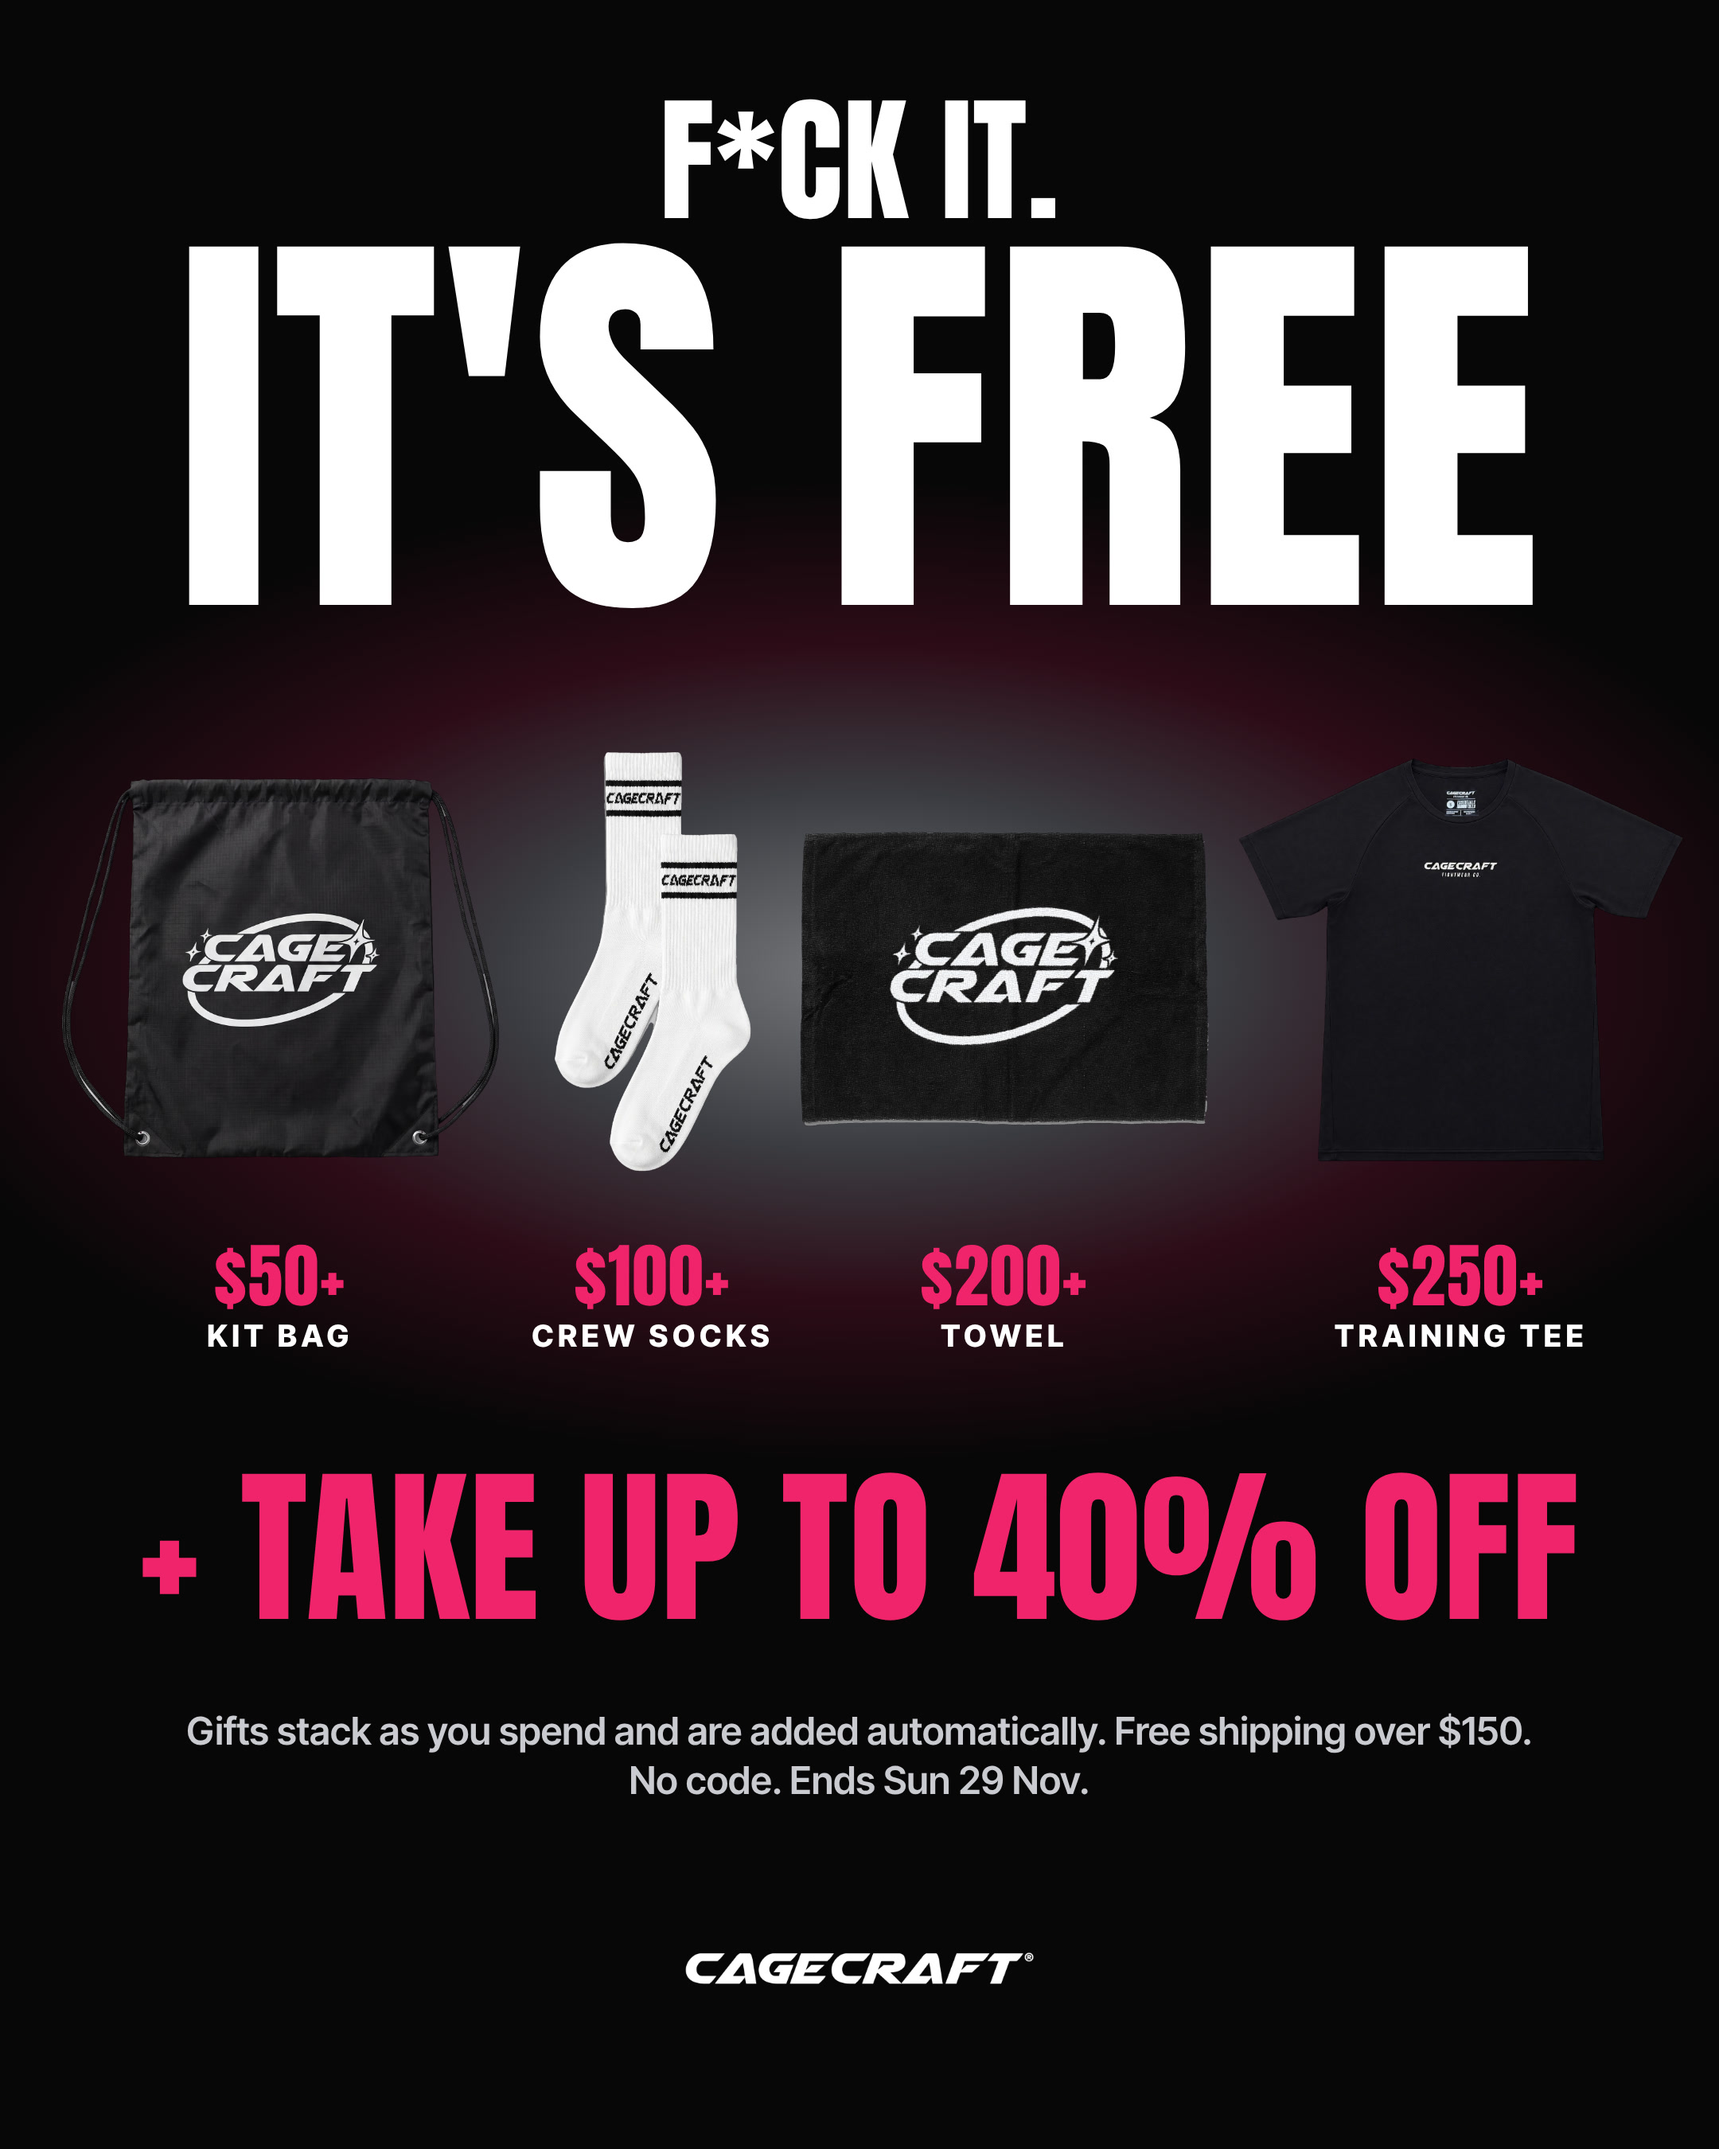
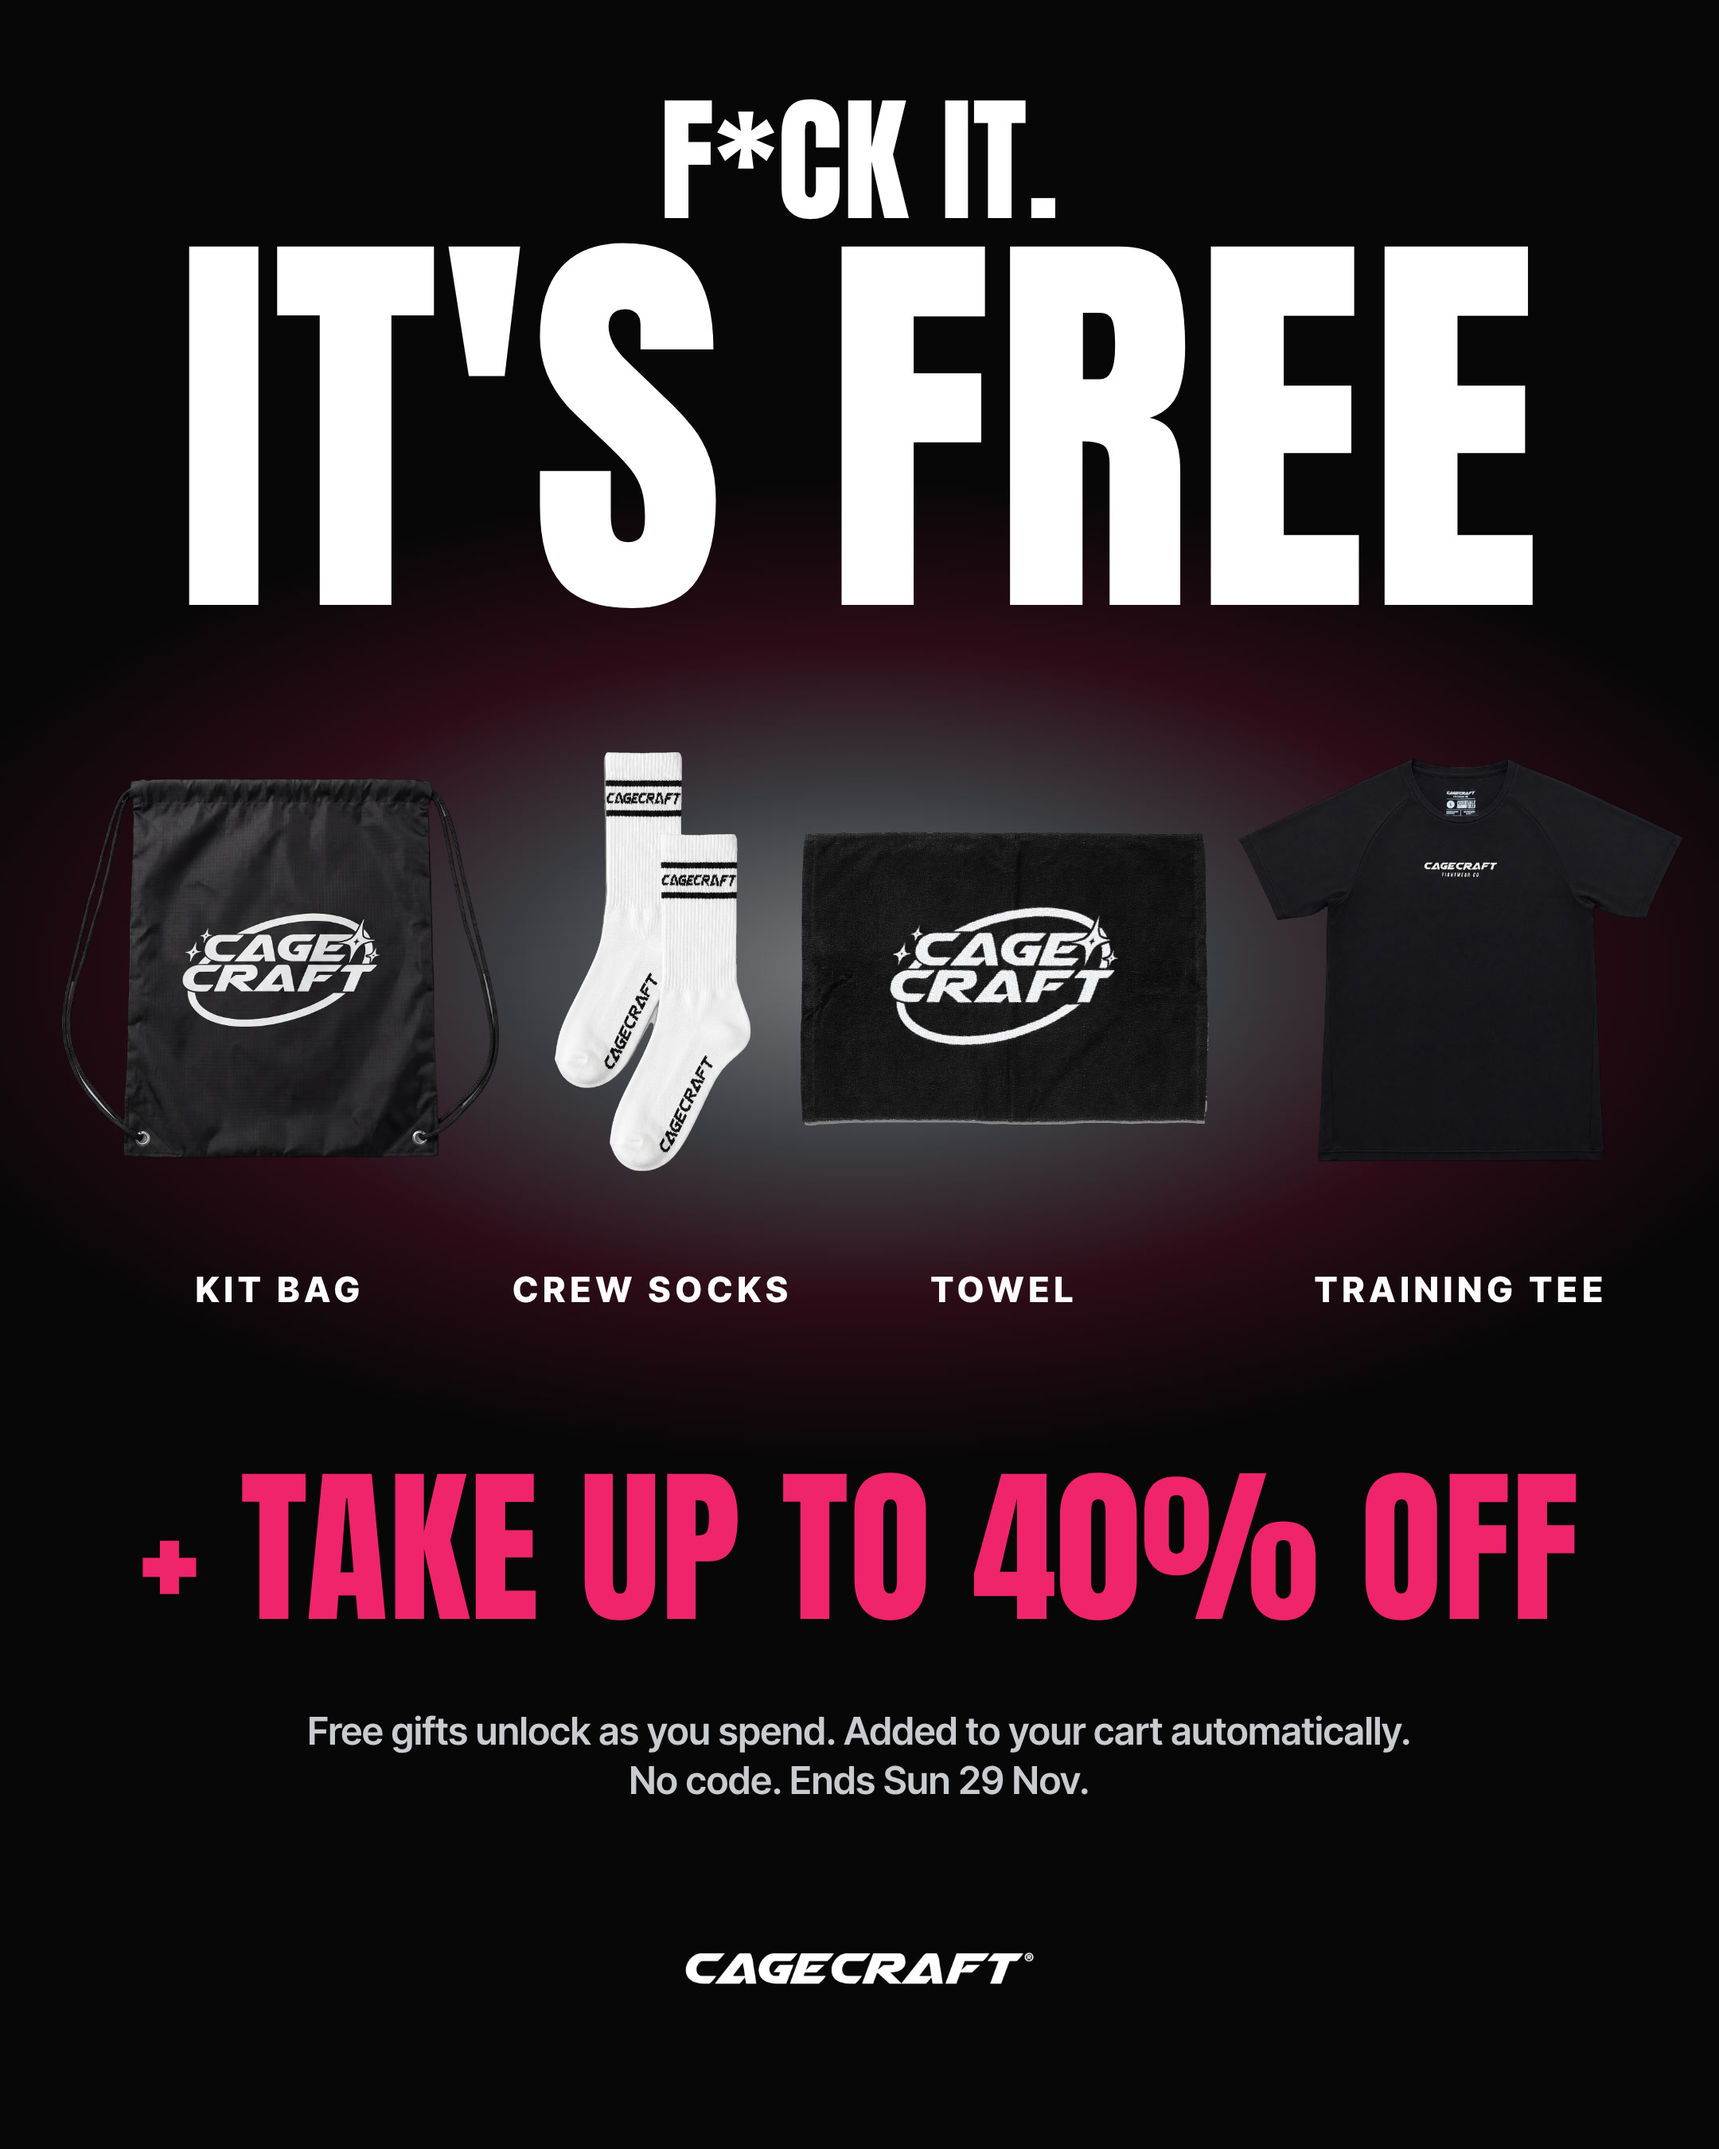
Free gifts ad: remove spend tiers
Claude-Session: https://claude.ai/code/session_01DwmoEmy8CSvczLcw7q8N8i

diff --git a/cagecraft-ads/ads/bf-18-fck-its-free-gifts/ad.html b/cagecraft-ads/ads/bf-18-fck-its-free-gifts/ad.html
@@ -4,7 +4,7 @@ body{background:#070707}
 .h1{left:0;right:0;top:62px;text-align:center;color:#fff;font-size:86px}
 .h2{left:0;right:0;top:150px;text-align:center;color:#fff;font-size:262px;white-space:nowrap}
 .g{position:absolute}.g img{width:100%;display:block}
-.tier{position:absolute;font:800 19px/1 var(--cc-body);letter-spacing:.14em;color:#fff;text-transform:uppercase;text-align:center;width:200px;margin-left:-100px}
+.tier{position:absolute;font:800 22px/1 var(--cc-body);letter-spacing:.14em;color:#fff;text-transform:uppercase;text-align:center;width:200px;margin-left:-100px}
 .tier b{display:block;color:var(--hot);font:400 44px/1 "Anton";letter-spacing:.02em;margin-bottom:6px}
 .off{left:0;right:0;top:924px;text-align:center;color:var(--hot);font-size:106px}
 .small{left:0;right:0;top:1072px;text-align:center;font:600 24px/1.3 var(--cc-body);color:#C9CBD0}
@@ -17,11 +17,11 @@ body{background:#070707}
 <div class="g" style="left:346px;top:470px;width:128px"><img data-product="cut/crew-socks/white.png" src="../../library/cut/crew-socks/white.png"></div>
 <div class="g" style="left:500px;top:520px;width:262px"><img data-product="cut/training-towel/c.png" src="../../library/cut/training-towel/c.png"></div>
 <div class="g" style="left:776px;top:474px;width:284px"><img data-product="cut/tee-essentials/front.png" src="../../library/cut/tee-essentials/front.png"></div>
-<div class="tier" style="left:176px;top:780px"><b>$50+</b>Kit bag</div>
-<div class="tier" style="left:410px;top:780px"><b>$100+</b>Crew socks</div>
-<div class="tier" style="left:631px;top:780px"><b>$200+</b>Towel</div>
-<div class="tier" style="left:918px;top:780px"><b>$250+</b>Training tee</div>
+<div class="tier" style="left:176px;top:800px">Kit bag</div>
+<div class="tier" style="left:410px;top:800px">Crew socks</div>
+<div class="tier" style="left:631px;top:800px">Towel</div>
+<div class="tier" style="left:918px;top:800px">Training tee</div>
 <div class="abs off anton">+ Take up to 40% off</div>
-<div class="abs small">Gifts stack as you spend and are added automatically. Free shipping over $150.<br>No code. Ends Sun 29 Nov.</div>
+<div class="abs small">Free gifts unlock as you spend. Added to your cart automatically.<br>No code. Ends Sun 29 Nov.</div>
 <img class="abs logo" src="../../library/logo/logo-white.png">
 </body></html>
